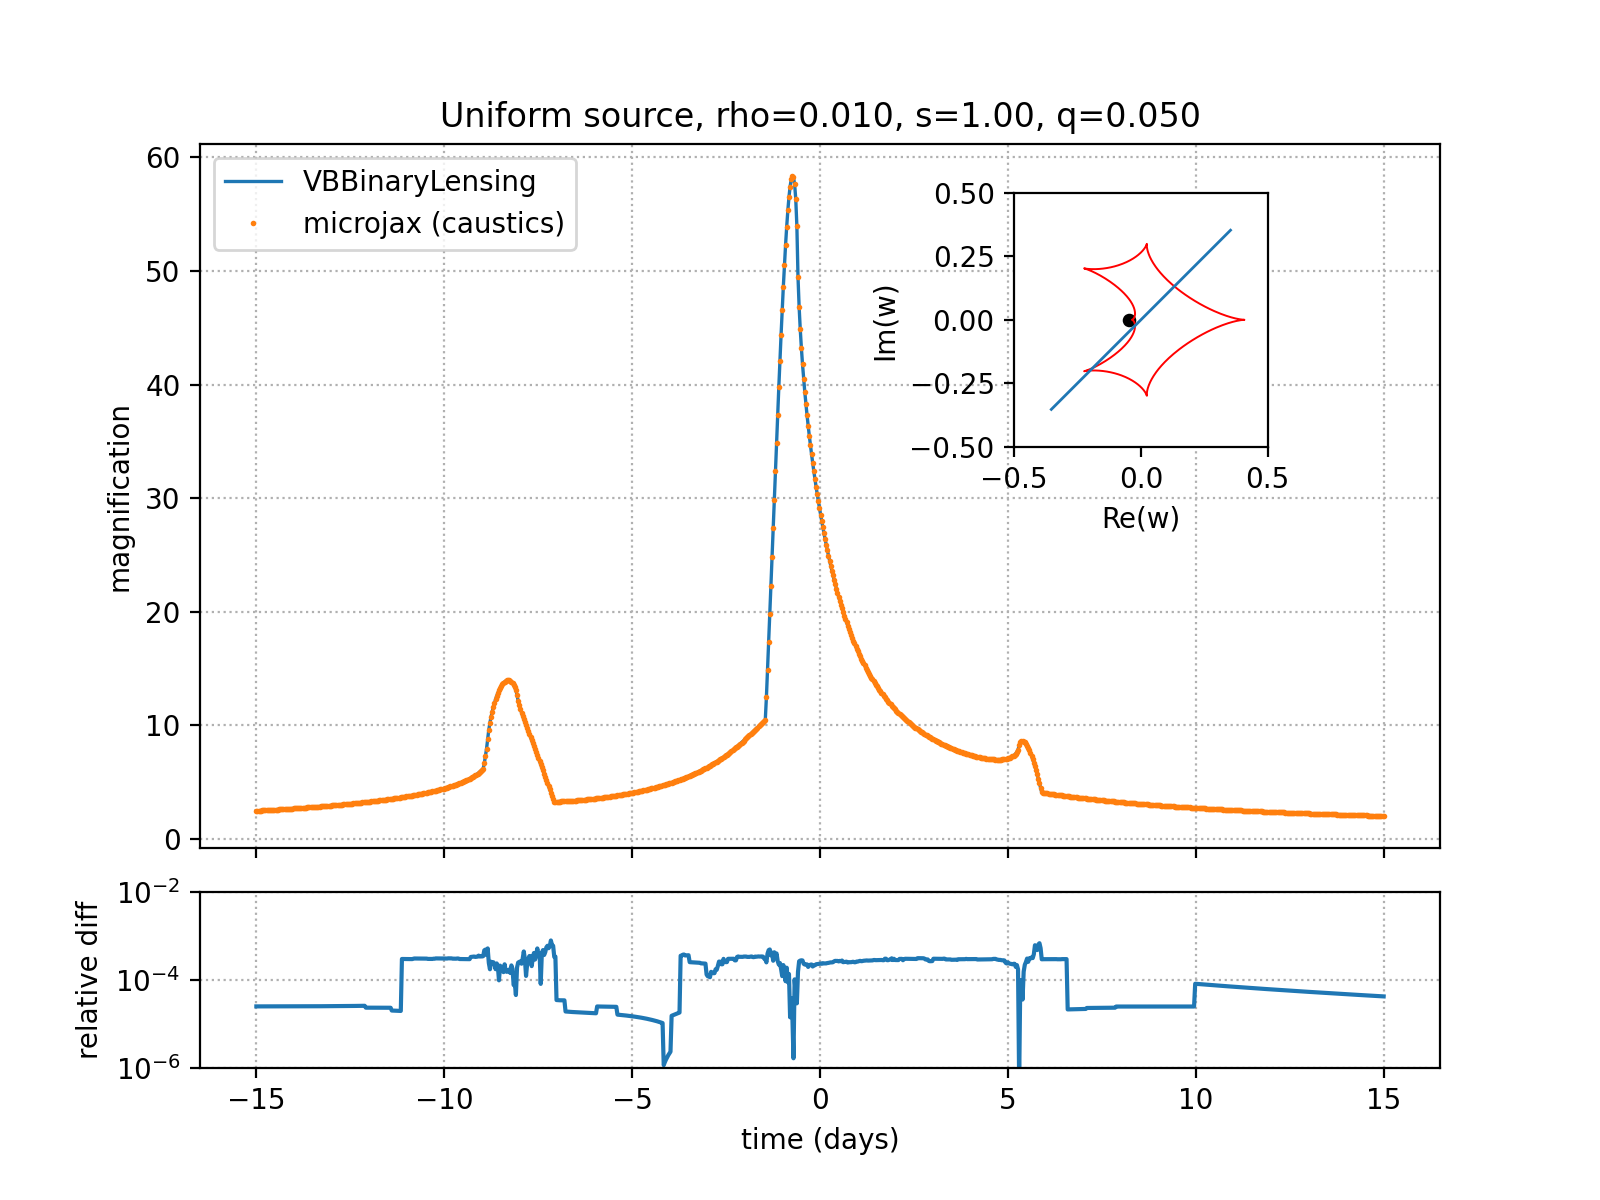
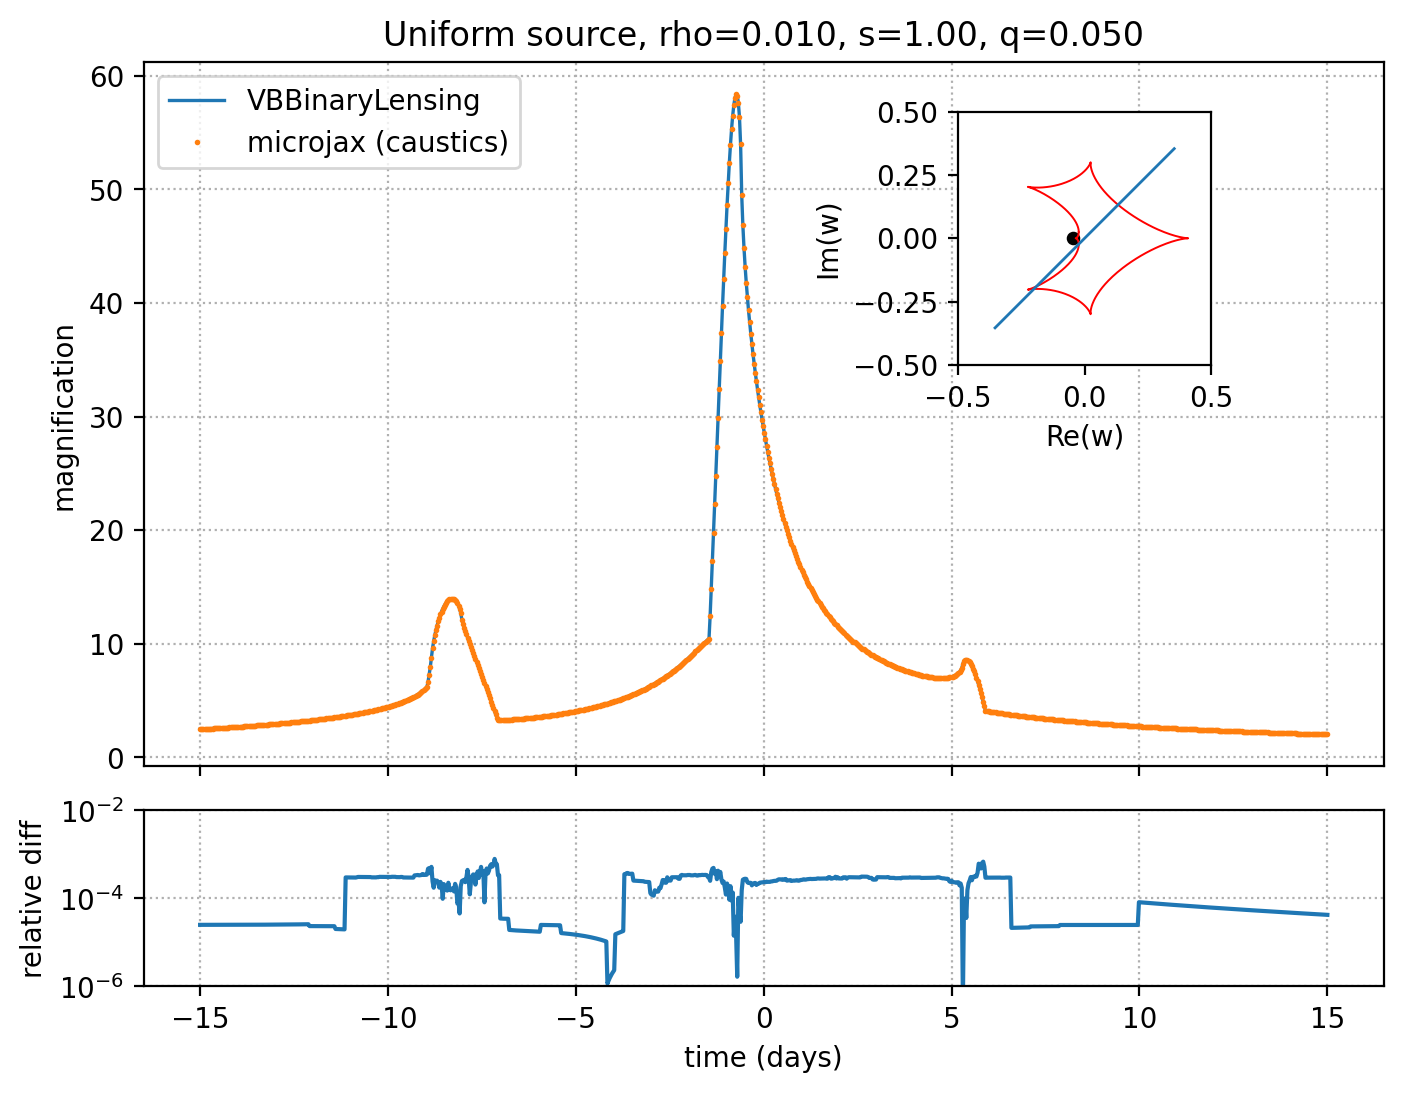
caustics example

diff --git a/example/contour_integrating/compare_vbbl.py b/example/contour_integrating/compare_vbbl.py
@@ -134,6 +134,6 @@ ax_in.plot(w_points.real, w_points.imag, color="tab:blue", lw=1.0)
 ax_in.scatter((-q / (1 + q)) * s, 0.0, c="k", s=15)
 ax_in.scatter((1.0 / (1 + q)) * s, 0.0, c="k", s=15)
 ax_in.set(xlabel="Re(w)", ylabel="Im(w)", xlim=(-0.5, 0.5), ylim=(-0.5, 0.5))
-fig.savefig("example/contour_integrating/compare_binary_uniform.png", dpi=200)
+fig.savefig("example/contour_integrating/compare_binary_uniform.png", dpi=200, bbox_inches="tight")
 print("output: example/contour_integrating/compare_binary_uniform.png")
 plt.show()
